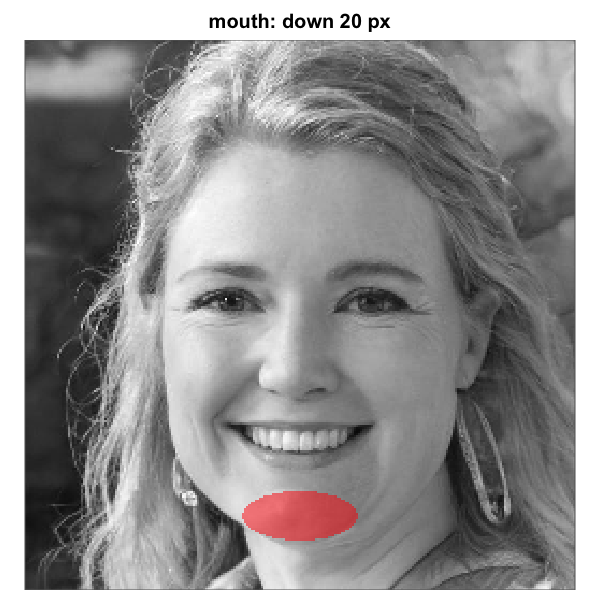
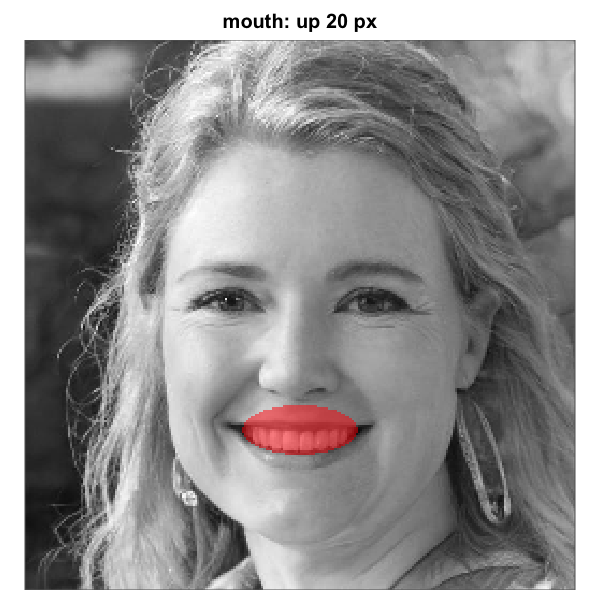
v0.2.0 polish: shift_mask API rename, fire-palette agreement maps section, tutorial alignment

Changed region(s): [[0.39, 0.66, 0.6, 0.78], [0.39, 0.81, 0.6, 0.9], [0.33, 0.0, 0.66, 0.06]]

diff --git a/NEWS.md b/NEWS.md
@@ -31,6 +31,14 @@
   rows. Both checks fail with teaching messages naming the
   offending producer.
 
+* `shift_mask()` arguments renamed and `vertical` sign flipped.
+  `down` -> `vertical`, `right` -> `horizontal`. The new
+  `vertical` follows the math / y-axis-up idiom (positive moves
+  the mask up, negative moves it down); `horizontal` keeps the
+  intuitive convention (positive right, negative left). Migration:
+  rename `down = N` -> `vertical = -N` (note the sign flip),
+  `right = N` -> `horizontal = N`. No deprecation alias.
+
 * Column-name arguments standardized on the `col_*` convention
   in the two CI builders. Renamed:
   `ci_from_responses_briefrc(participant_col, stimulus_col, response_col)`
